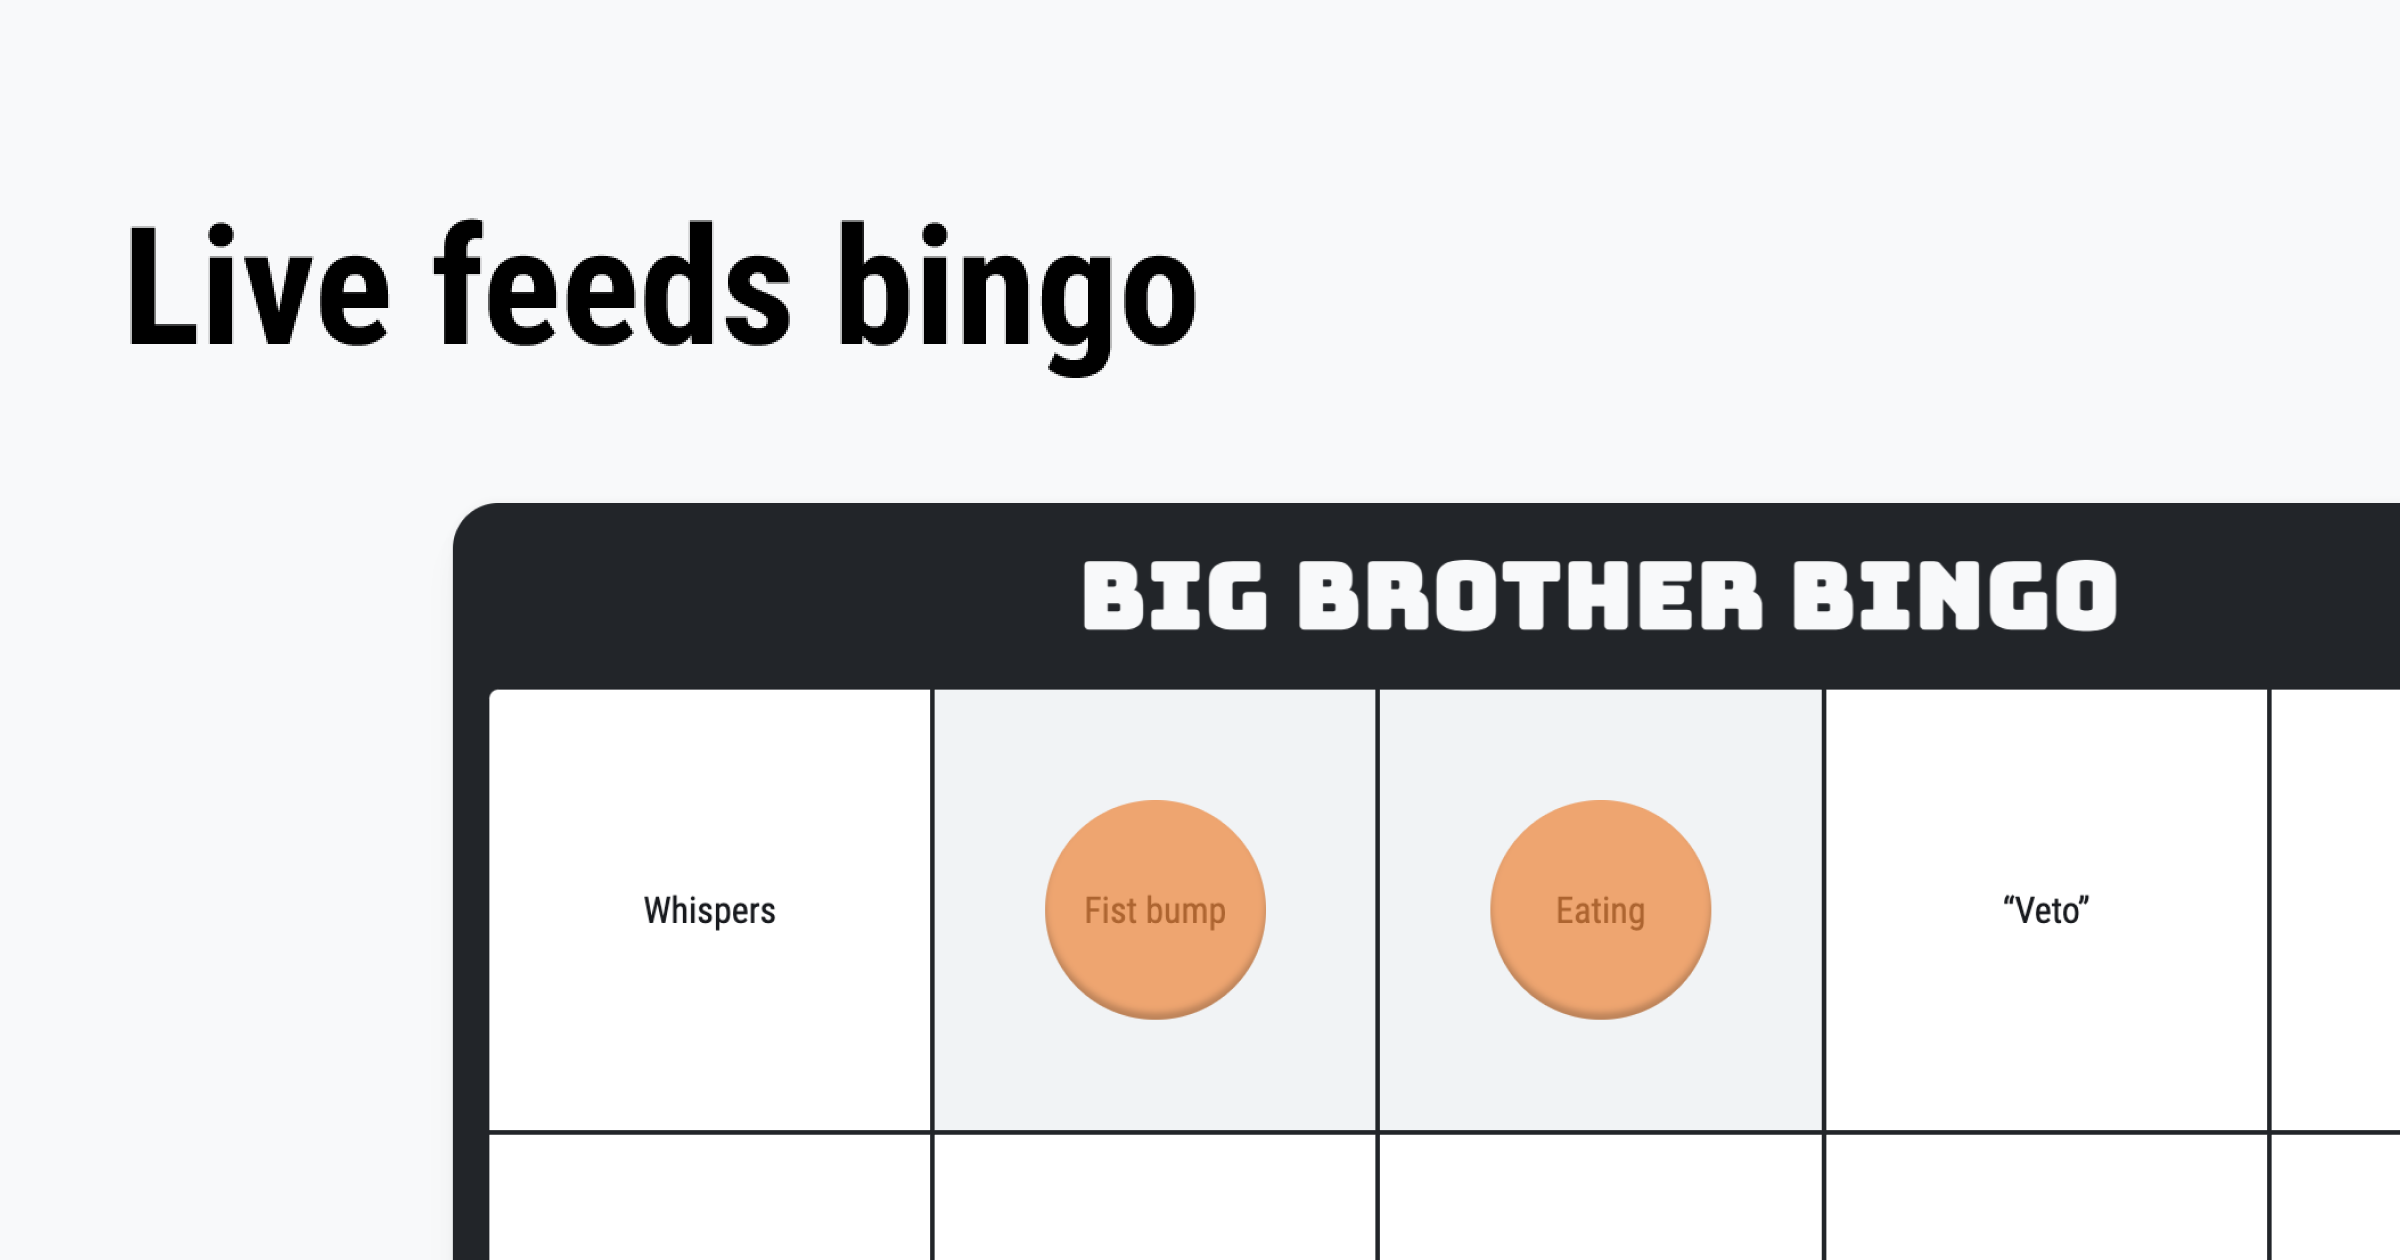
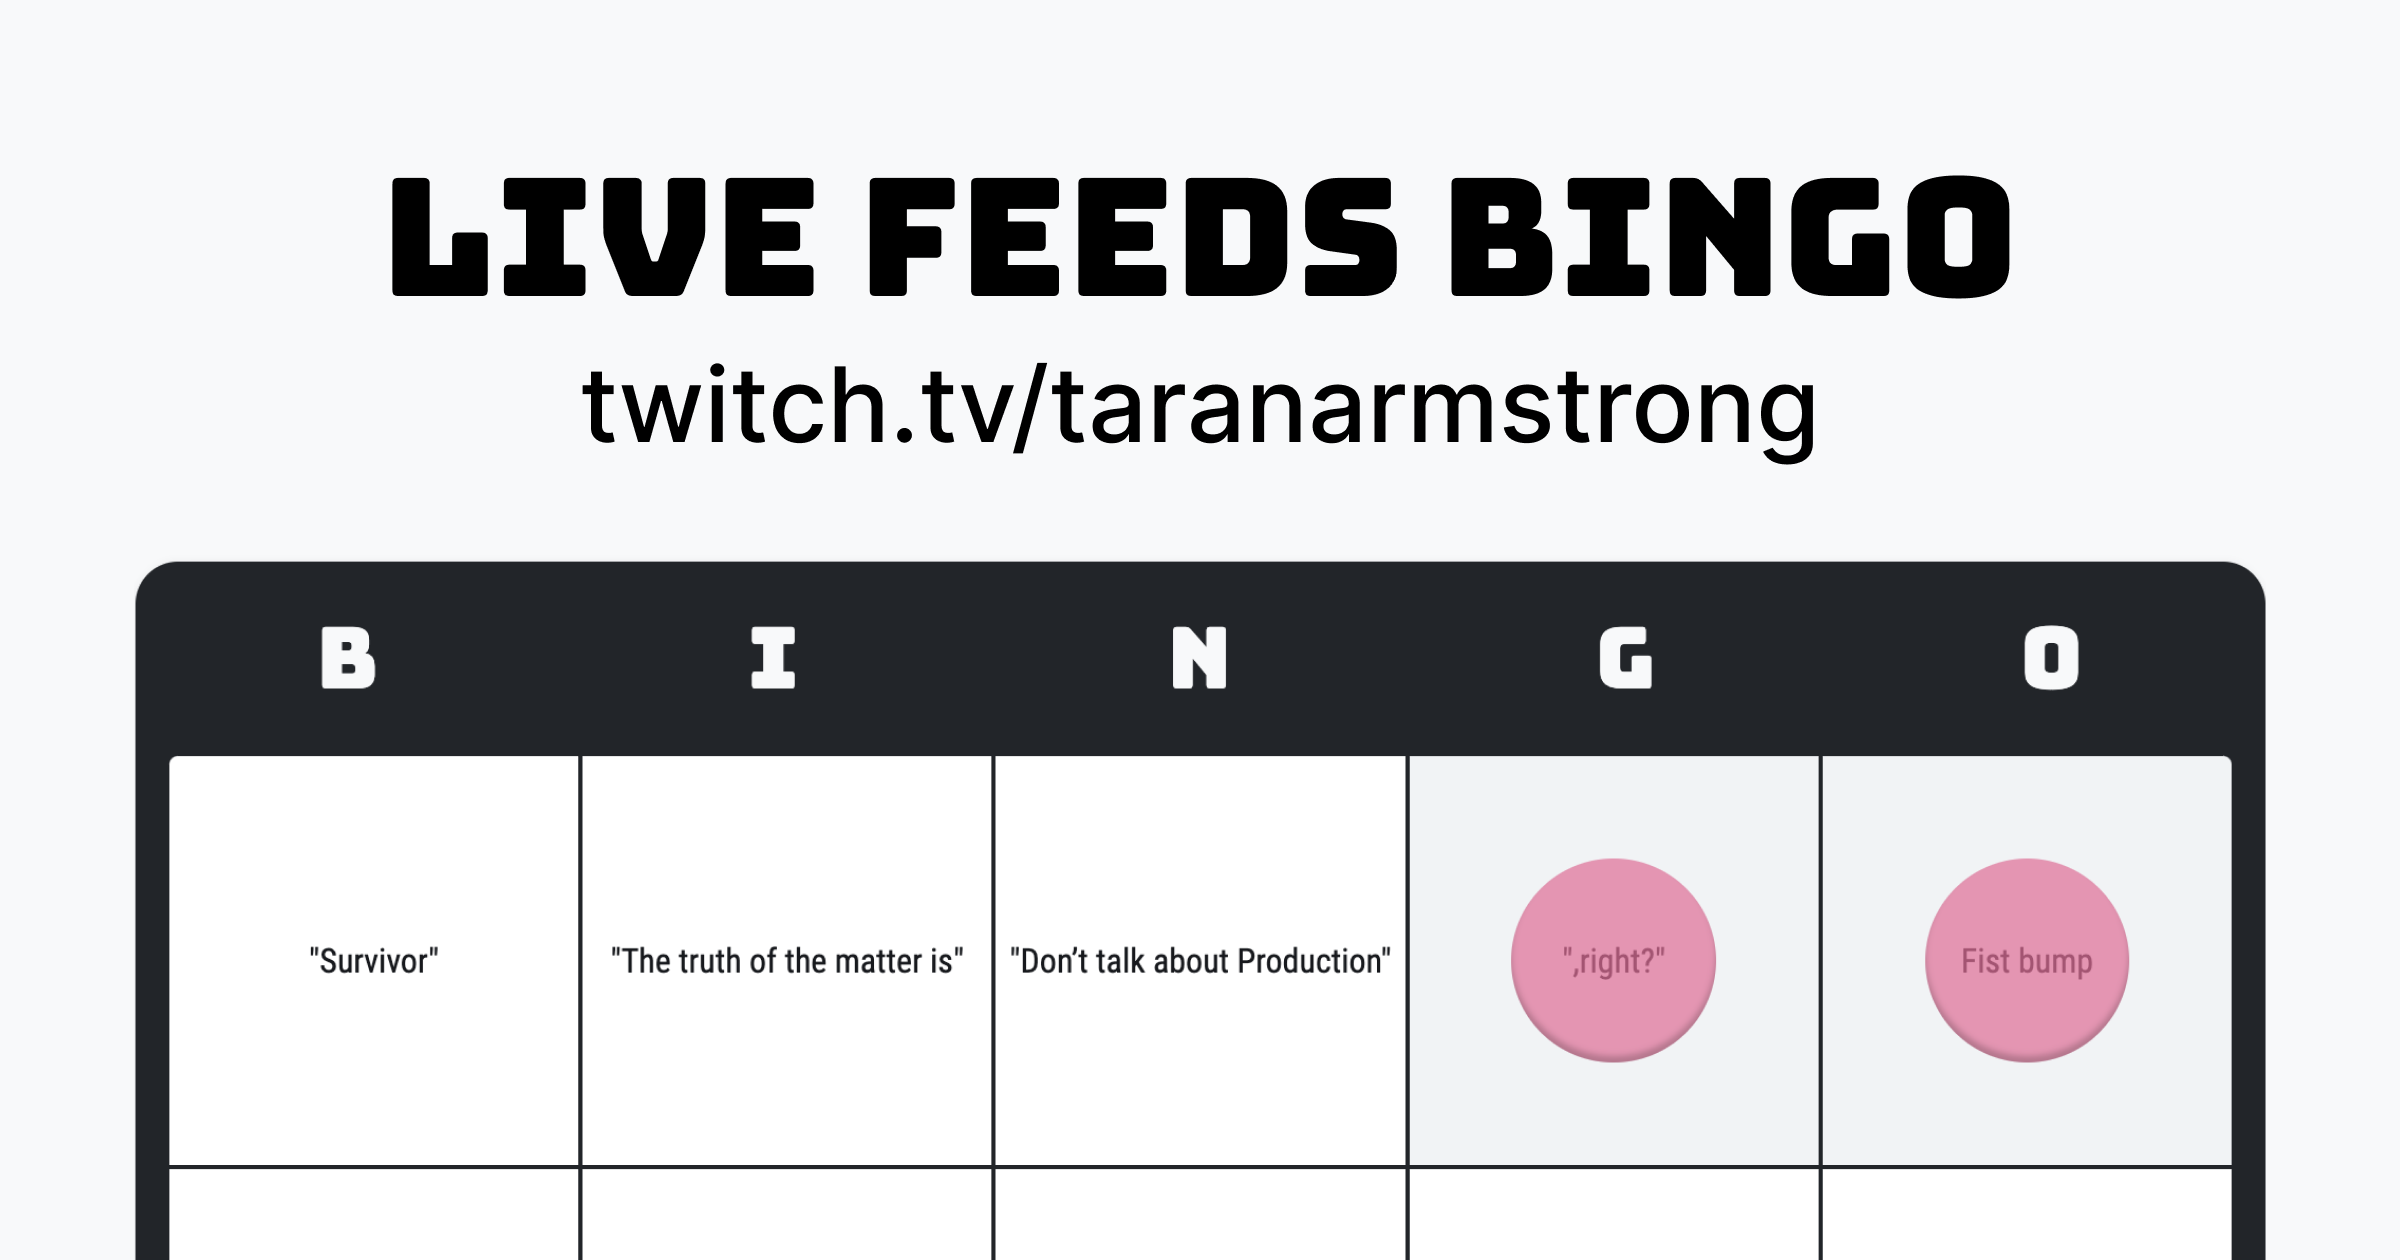
restyle header

Changed region(s): [[0.0312, 0.1238, 1.0, 1.0]]

diff --git a/src/styles/BingoCard.css b/src/styles/BingoCard.css
@@ -9,6 +9,14 @@
 .BingoCard--header {
   text-align: center;
   padding-block-start: var(--card-border-padding);
+  display: grid;
+  grid-template-columns: repeat(5, 1fr);
+  text-transform: uppercase;
+  color: var(--textColor-card);
+  font-size: var(--font-size-fluid-2);
+  max-inline-size: unset;
+  font-family: var(--font-heading);
+  letter-spacing: 0.025em;
 }
 
 .BingoCard-body {

diff --git a/src/styles/global.css b/src/styles/global.css
@@ -127,11 +127,15 @@ body {
 }
 
 h1 {
-  color: var(--textColor-card);
-  font-size: var(--font-size-fluid-2);
-  max-inline-size: unset;
-  font-family: var(--font-heading);
-  letter-spacing: 0.025em;
+  border: 0;
+  clip: rect(0 0 0 0);
+  height: auto;
+  margin: 0;
+  overflow: hidden;
+  padding: 0;
+  position: absolute;
+  width: 1px;
+  white-space: nowrap;
 }
 
 ul {
